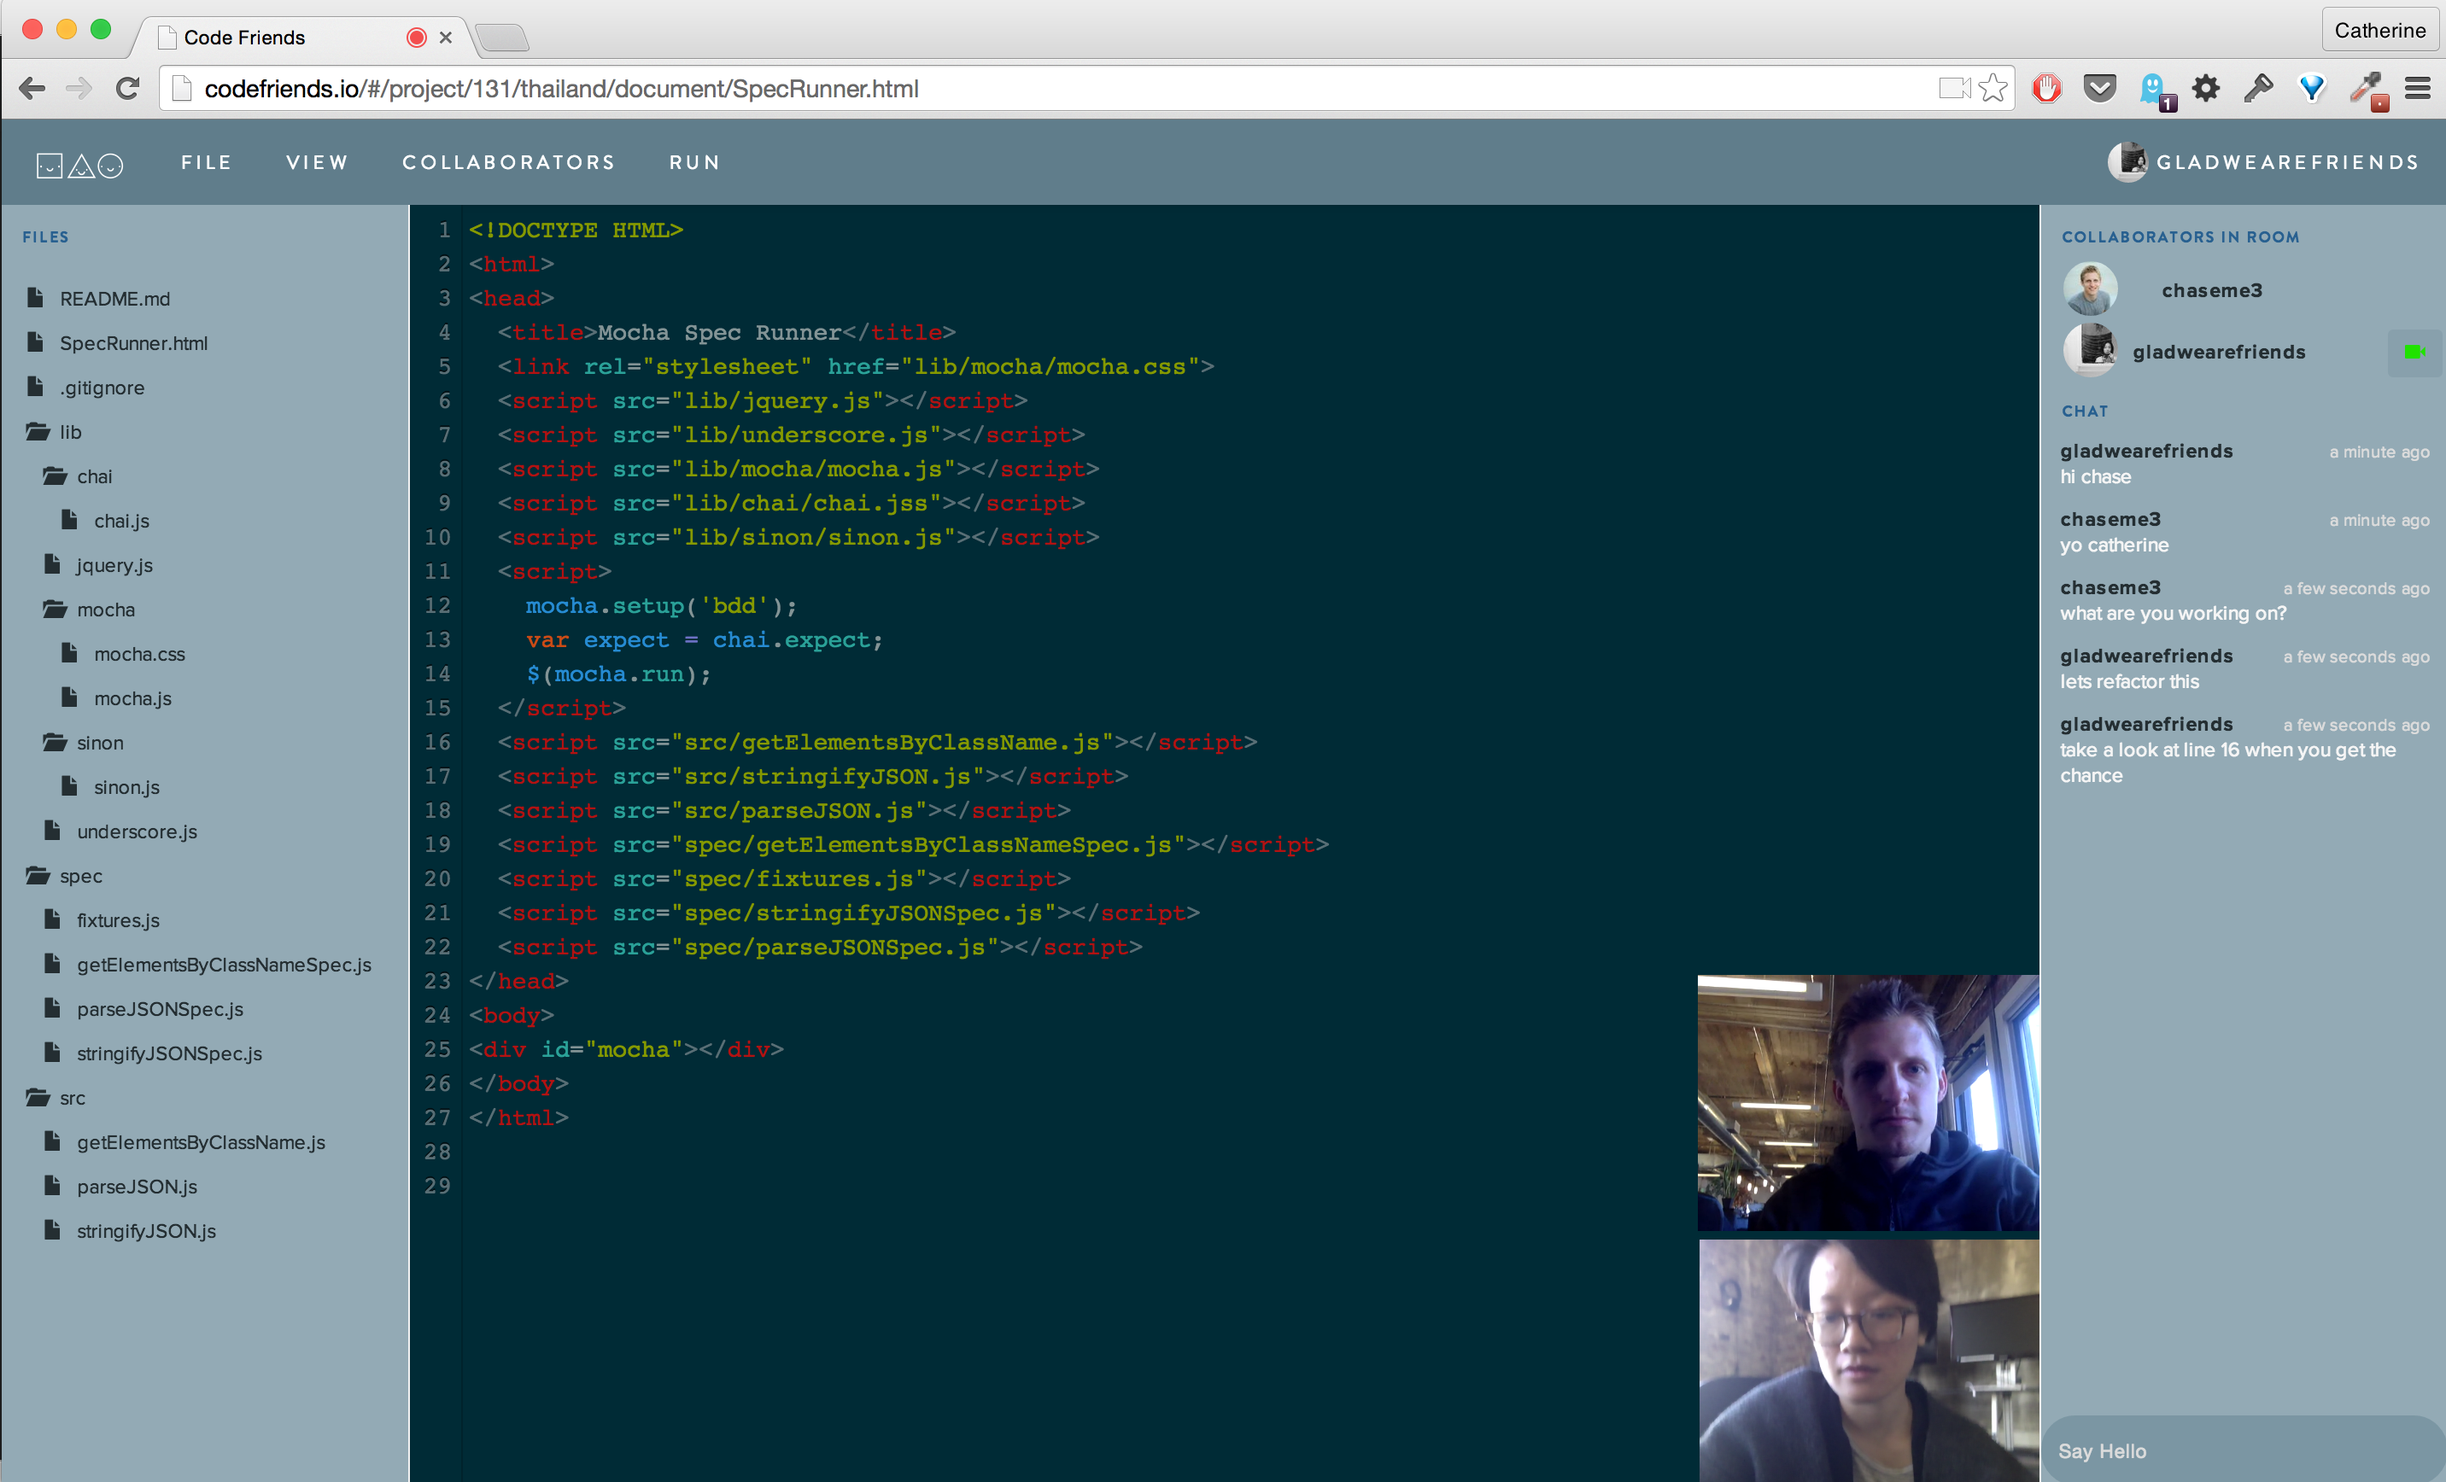
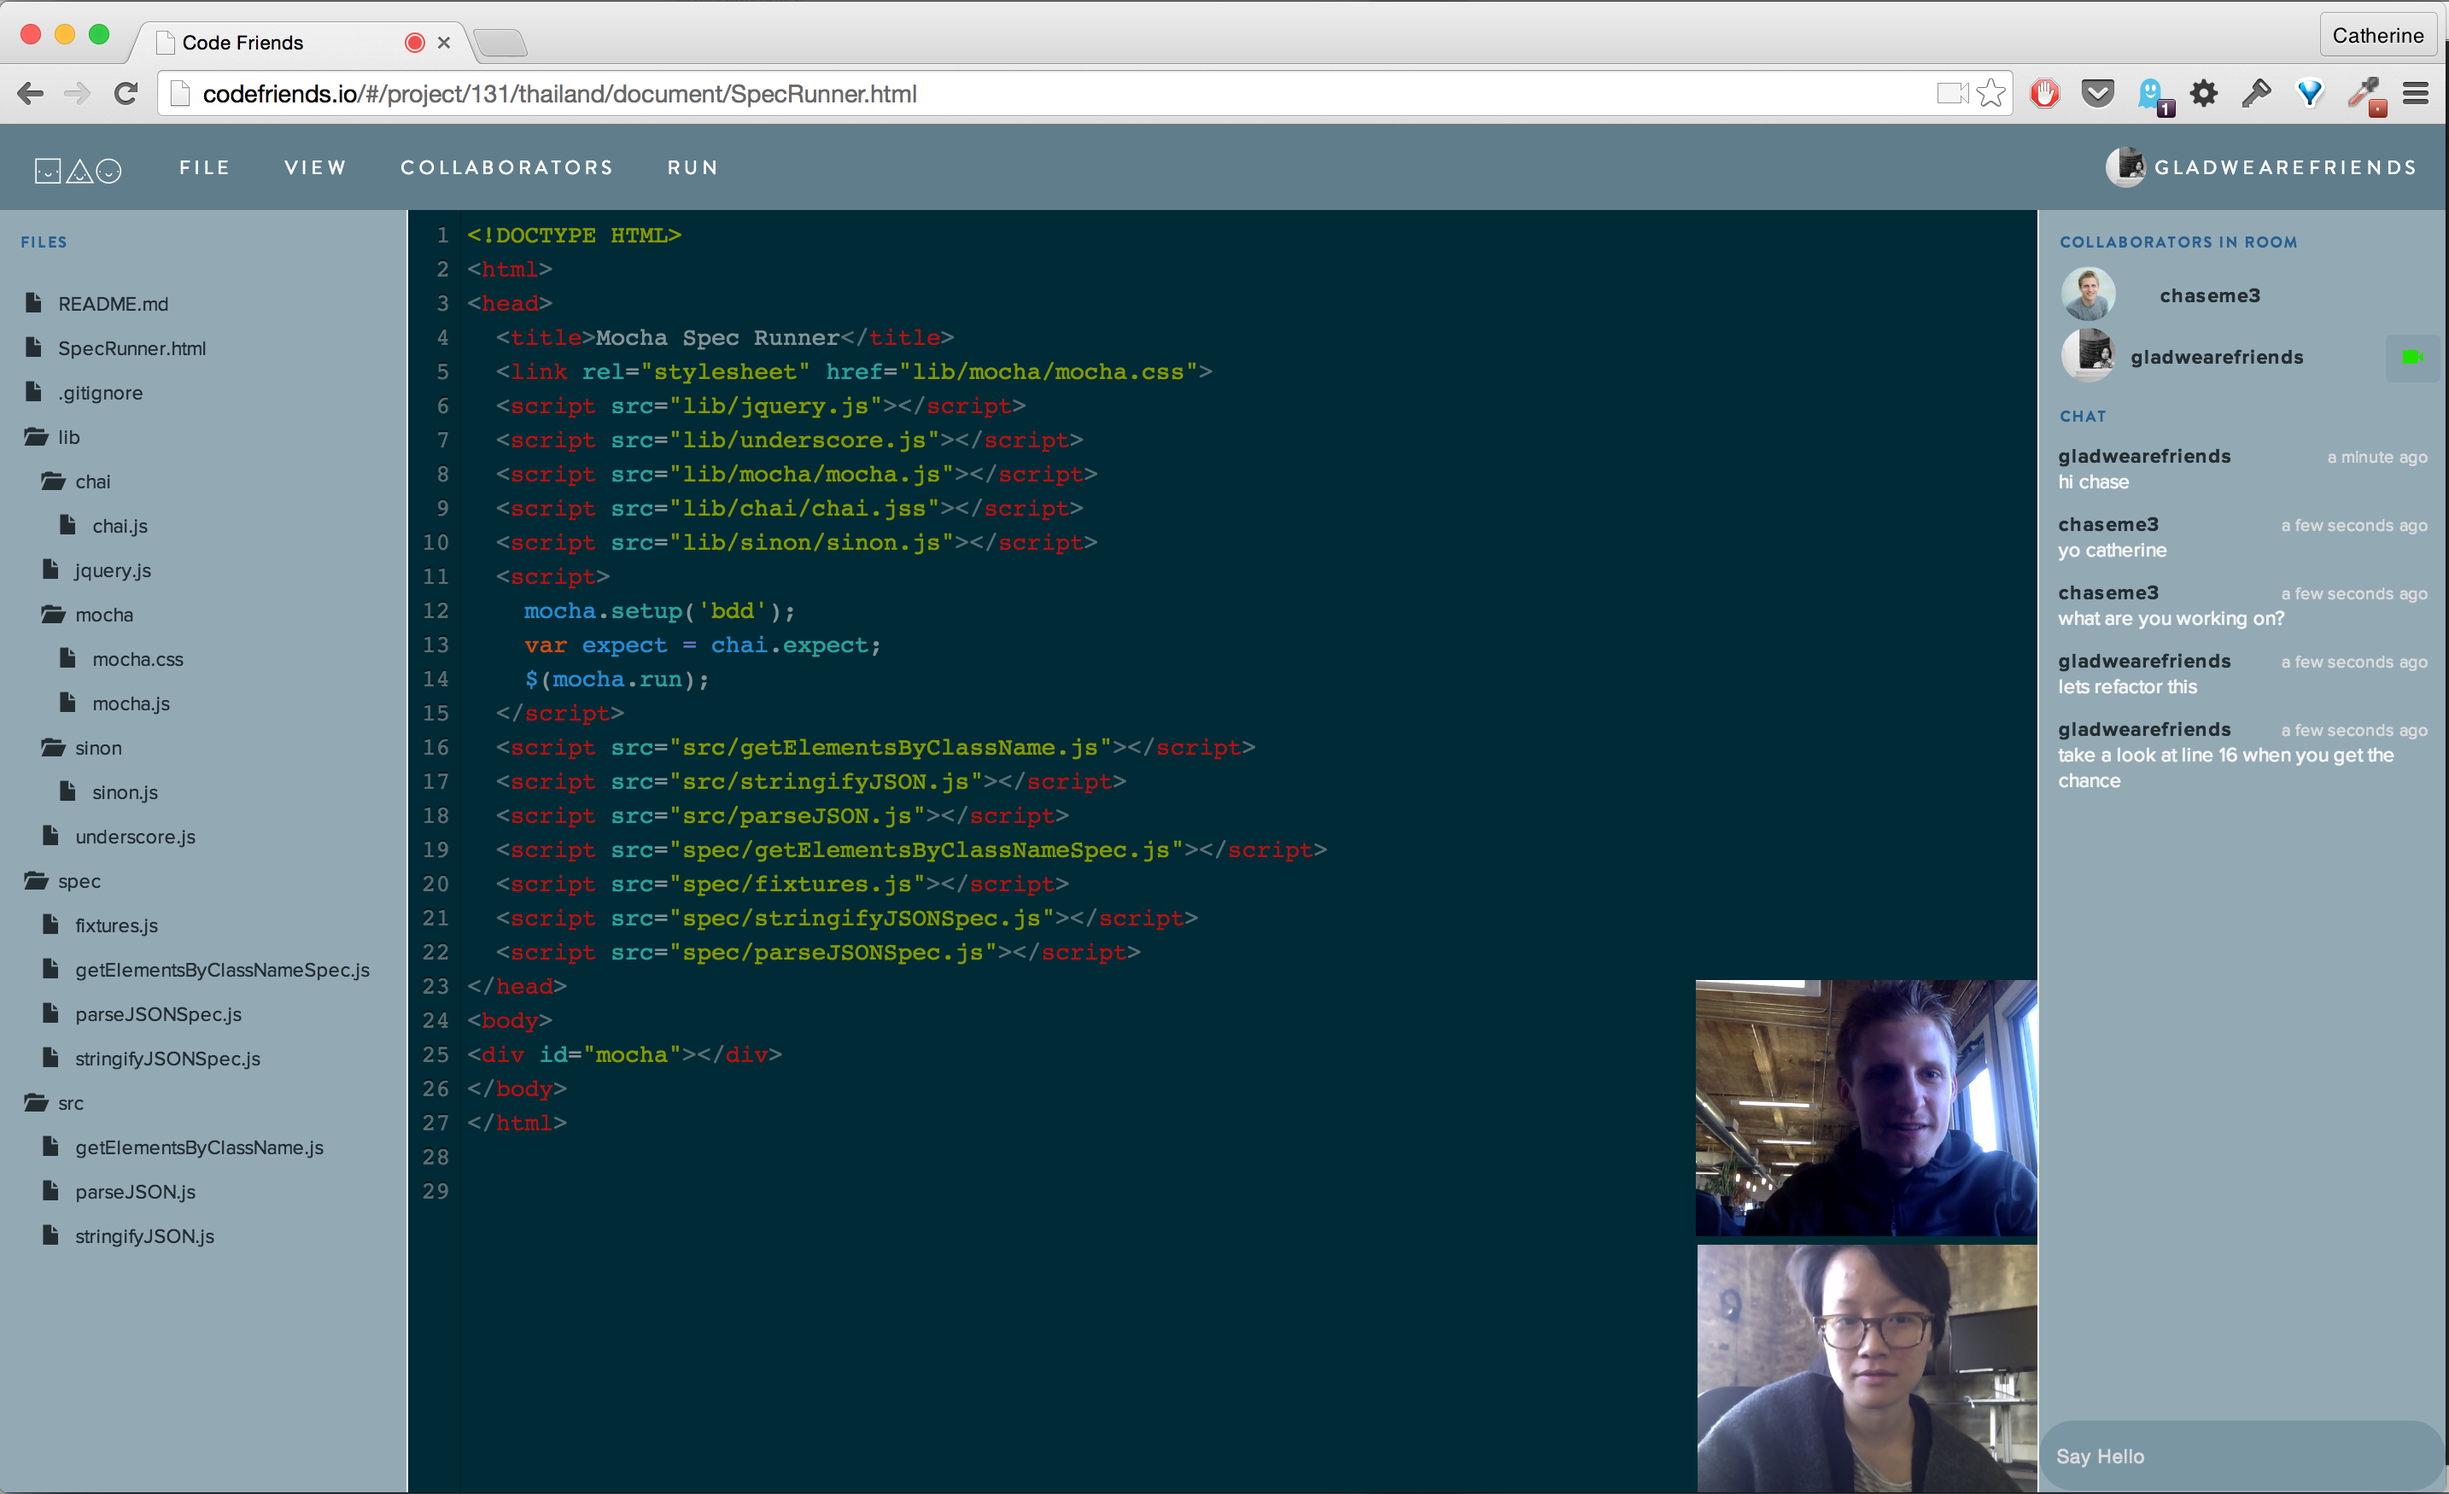
edit photo

diff --git a/README.md b/README.md
@@ -27,7 +27,7 @@ CodeFriends is a collaborative programming environment in your browser. Work wit
 1. Clone a repo, use a template, or create a project from scratch.
 1. Invite collaborators with their Github username and start collaborating!
 
-![Real time editing](http://codefriends.io/assets/img/landingScreenshots/realTimeEditingShot.png?raw=true "Real time editing")
+![Real time editing with others](http://codefriends.io/assets/img/landingScreenshots/videoScreenShot.png?raw=true "Real time editing")
 
 ## Development
 ### Setup
